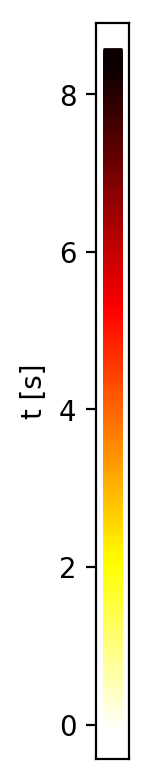
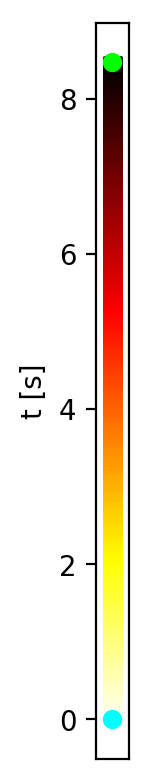
rotate, mark snapshot times, start trajectory at later time

diff --git a/fave/all_plots.py b/fave/all_plots.py
@@ -10,7 +10,36 @@ capsule = capsule_distance.Capsule(0.18, -0.5, 0.45)
 y_reference_point = 0.18
 tau = 1.5
 
-def plot_and_export(name, t_snapshot_1, t_snapshot_2, show_big_circle, x_lim, y_lim, remove_ground):
+def rotate_pose_mat(pose_mat, angle):
+	rotation_matrix = np.array([
+		[np.cos(angle), -np.sin(angle)],
+		[np.sin(angle),  np.cos(angle)]])
+	
+	pose_mat[:, 1:3] = np.matmul(pose_mat[:, 1:3], np.transpose(rotation_matrix))
+
+	pose_mat[:, 3] = pose_mat[:, 3] + angle
+
+def rotate_t_vector_stack(stack_mat, angle):
+	rotation_matrix = np.array([
+		[np.cos(angle), -np.sin(angle)],
+		[np.sin(angle),  np.cos(angle)]])
+	
+	stack_mat[:, 1:3] = np.matmul(stack_mat[:, 1:3], np.transpose(rotation_matrix))
+
+def rotate_t_multi_vector_stack(stack_mat, angle):
+	rotation_matrix = np.array([
+		[np.cos(angle), -np.sin(angle)],
+		[np.sin(angle),  np.cos(angle)]])
+
+	n_vectors = (stack_mat.shape[1] - 1)/2
+	rot_diag = np.kron(np.eye(n_vectors, dtype=float), rotation_matrix)
+
+	nan_ind = np.isnan(stack_mat)
+	stack_mat[nan_ind] = 0.0
+	stack_mat[:, 1:] = np.matmul(stack_mat[:, 1:], np.transpose(rot_diag))
+	stack_mat[nan_ind] = np.nan
+
+def plot_and_export(name, t_start, t_snapshot_1, t_snapshot_2, show_big_circle, x_lim, y_lim, remove_ground, rotation_angle):
 
 	folder_path = "./" + name + "/"
 	picture_export_prefix = "./pictures/a_" + name + "_"
@@ -25,15 +54,22 @@ def plot_and_export(name, t_snapshot_1, t_snapshot_2, show_big_circle, x_lim, y_
 	lrf_file_name = folder_path + "t_lrf_ob_global.mat"
 	d_lrf_file_name = folder_path + "t_shortest_distance_lrf_all.mat"
 
-	pose_mat = sio.loadmat(pose_file_name)
-	xy_p_ref_mat = sio.loadmat(xy_p_ref_file_name)
-	v_nom_mat = sio.loadmat(v_nom_file_name)
-	v_corr_mat = sio.loadmat(v_corr_file_name)
+	pose_mat = sio.loadmat(pose_file_name) # to be rotated
+	xy_p_ref_mat = sio.loadmat(xy_p_ref_file_name) # to be rotated
+	v_nom_mat = sio.loadmat(v_nom_file_name) # to be rotated
+	v_corr_mat = sio.loadmat(v_corr_file_name) # to be rotated
 	d_tracks_mat = sio.loadmat(d_tracks_file_name)
-	tracks_mat = sio.loadmat(tracks_file_name)
+	tracks_mat = sio.loadmat(tracks_file_name) # to be rotated
 	command_mat = sio.loadmat(command_file_name)
-	lrf_mat = sio.loadmat(lrf_file_name)
+	lrf_mat = sio.loadmat(lrf_file_name) # to be rotated
 	d_lrf_mat = sio.loadmat(d_lrf_file_name)
+
+	rotate_pose_mat(pose_mat['data'], rotation_angle)
+	rotate_t_vector_stack(xy_p_ref_mat['data'], rotation_angle)
+	rotate_t_vector_stack(v_nom_mat['data'], rotation_angle)
+	rotate_t_vector_stack(v_corr_mat['data'], rotation_angle)
+	rotate_t_multi_vector_stack(tracks_mat['data'], rotation_angle)
+	rotate_t_multi_vector_stack(lrf_mat['data'], rotation_angle)
 
 	pose_without_nan_rows = pose_mat['data'][~np.isnan(pose_mat['data']).any(axis=1)]
 
@@ -60,6 +96,8 @@ def plot_and_export(name, t_snapshot_1, t_snapshot_2, show_big_circle, x_lim, y_
 
 	d_min = 10000.0
 	i_d_min = 0
+	t_start += t[1]
+	i_start = None
 	t_d_min_1 = t[1] + t_snapshot_1
 	t_d_min_2 = t[1] + t_snapshot_2
 	i_d_min_1 = None
@@ -72,6 +110,8 @@ def plot_and_export(name, t_snapshot_1, t_snapshot_2, show_big_circle, x_lim, y_
 			i_d_min_1 = i
 		if (t[i] > t_d_min_2) and (i_d_min_2 == None):
 			i_d_min_2 = i
+		if (t[i] > t_start) and (i_start == None):
+			i_start = i
 
 	i_snapshots = [i_d_min_1, i_d_min_2]
 	t_snapshot_colors = [[0.0,1.0, 1.0], [0.0,1.0, 0.0]]
@@ -88,7 +128,7 @@ def plot_and_export(name, t_snapshot_1, t_snapshot_2, show_big_circle, x_lim, y_
 			plt.scatter(lrf[i_d_min_1, even].flatten(), lrf[i_d_min_1, odd].flatten(), color=t_snapshot_colors[0])
 			plt.scatter(lrf[i_d_min_2, even].flatten(), lrf[i_d_min_2, odd].flatten(), color=t_snapshot_colors[1])
 		else:
-			r_cutoff_squared = 9.0
+			r_cutoff_squared = 16.0
 			for i_snap in range(2):
 				i_now = i_snapshots[i_snap]
 				X_lrf_now = lrf[i_now, even].flatten() 
@@ -97,11 +137,11 @@ def plot_and_export(name, t_snapshot_1, t_snapshot_2, show_big_circle, x_lim, y_
 				i_cutoff = R_now_squared < r_cutoff_squared
 				plt.scatter(X_lrf_now[i_cutoff], Y_lrf_now[i_cutoff], color=t_snapshot_colors[i_snap])
 
-	plt.scatter(xy_p_ref[1:i_d_min_2, 0], xy_p_ref[1:i_d_min_2, 1], c=(t[1:i_d_min_2]-t[1])/(t[i_d_min_2]-t[1]), cmap=cm.hot_r, marker='o', edgecolors='k')
-	plt.scatter(xy_p_ref[1:i_d_min_2, 0], xy_p_ref[1:i_d_min_2, 1], c=(t[1:i_d_min_2]-t[1])/(t[i_d_min_2]-t[1]), cmap=cm.hot_r, marker='o')#, edgecolors='k')
+	plt.scatter(xy_p_ref[i_start:i_d_min_2, 0], xy_p_ref[i_start:i_d_min_2, 1], c=(t[i_start:i_d_min_2]-t[i_start])/(t[i_d_min_2]-t[i_start]), cmap=cm.hot_r, marker='o', edgecolors='k')
+	plt.scatter(xy_p_ref[i_start:i_d_min_2, 0], xy_p_ref[i_start:i_d_min_2, 1], c=(t[i_start:i_d_min_2]-t[i_start])/(t[i_d_min_2]-t[i_start]), cmap=cm.hot_r, marker='o')#, edgecolors='k')
 	for j in range(tracks.shape[1]/4):
-		plt.scatter(tracks[1:i_d_min_2,j*4], tracks[1:i_d_min_2,j*4+1], c=(t[1:i_d_min_2]-t[1])/(t[i_d_min_2]-t[1]), cmap=cm.hot_r, marker="^", edgecolors='k')
-		plt.scatter(tracks[1:i_d_min_2,j*4], tracks[1:i_d_min_2,j*4+1], c=(t[1:i_d_min_2]-t[1])/(t[i_d_min_2]-t[1]), cmap=cm.hot_r, marker="^")
+		plt.scatter(tracks[i_start:i_d_min_2,j*4], tracks[i_start:i_d_min_2,j*4+1], c=(t[i_start:i_d_min_2]-t[i_start])/(t[i_d_min_2]-t[i_start]), cmap=cm.hot_r, marker="^", edgecolors='k')
+		plt.scatter(tracks[i_start:i_d_min_2,j*4], tracks[i_start:i_d_min_2,j*4+1], c=(t[i_start:i_d_min_2]-t[i_start])/(t[i_d_min_2]-t[i_start]), cmap=cm.hot_r, marker="^")
 
 	#plt.plot(xy_p_ref[i_d_min, 0], xy_p_ref[i_d_min, 1], 'kx')
 	plt.plot(xy_p_ref[i_d_min_1, 0], xy_p_ref[i_d_min_1, 1], 'kx')
@@ -134,29 +174,31 @@ def plot_and_export(name, t_snapshot_1, t_snapshot_2, show_big_circle, x_lim, y_
 		ax.set_ylim(y_lim)
 	plt.savefig(picture_export_prefix + 'trajectories.png', bbox_inches='tight', dpi=199)
 	plt.show()
-	#np.savetxt("debug_t_vector", t[1:i_d_min_2]-t[1])
-	plt.scatter(np.zeros(np.shape(t[1:i_d_min_2])[0]), t[1:i_d_min_2]-t[1], c=(t[1:i_d_min_2]-t[1])/(t[i_d_min_2]-t[1]), cmap=cm.hot_r, marker='s')
+	#np.savetxt("debug_t_vector", t[i_start:i_d_min_2]-t[i_start])
+	plt.scatter(np.zeros(np.shape(t[i_start:i_d_min_2])[0]), t[i_start:i_d_min_2]-t[i_start], c=(t[i_start:i_d_min_2]-t[i_start])/(t[i_d_min_2]-t[i_start]), cmap=cm.hot_r, marker='s')
+	plt.scatter([0.0], [t[i_d_min_1]-t[i_start]], color=t_snapshot_colors[0])
+	plt.scatter([0.0], [t[i_d_min_2]-t[i_start]], color=t_snapshot_colors[1])
 	plt.gca().set_ylabel('t [s]')
 	plt.gca().set_aspect('equal')
 	#ax.set_title('Trajectories')
-	plt.gca().set_xlim([(t[i_d_min_2]-t[1])/2/20.0, -(t[i_d_min_2]-t[1])/2/20.0])
+	plt.gca().set_xlim([(t[i_d_min_2]-t[i_start])/2/20.0, -(t[i_d_min_2]-t[i_start])/2/20.0])
 	plt.gca().set_xticks([], [])
 	plt.savefig(picture_export_prefix + 'color_map.png', bbox_inches='tight', dpi=199)
 	plt.show()
 
 	commands = command_mat['data'][:, :]
-	t_commands = commands[1:i_d_min_2, 0]
-	v_nominal = commands[1:i_d_min_2, 1]
-	w_nominal = commands[1:i_d_min_2, 2]
-	v_corrected = commands[1:i_d_min_2, 3]
-	w_corrected = commands[1:i_d_min_2, 4]
+	t_commands = commands[i_start:i_d_min_2, 0]
+	v_nominal = commands[i_start:i_d_min_2, 1]
+	w_nominal = commands[i_start:i_d_min_2, 2]
+	v_corrected = commands[i_start:i_d_min_2, 3]
+	w_corrected = commands[i_start:i_d_min_2, 4]
 
 	ax1 = plt.subplot(211)
 	ax2 = plt.subplot(212, sharex=ax1)
-	ax1.plot(t_commands-t[1], v_nominal, color='k', label='nominal')
-	ax1.plot(t_commands-t[1], v_corrected, color='r', label='corrected')
-	ax2.plot(t_commands-t[1], w_nominal, color='k', label='nominal')
-	ax2.plot(t_commands-t[1], w_corrected, color='r', label='corrected')
+	ax1.plot(t_commands-t[i_start], v_nominal, color='k', label='nominal')
+	ax1.plot(t_commands-t[i_start], v_corrected, color='r', label='corrected')
+	ax2.plot(t_commands-t[i_start], w_nominal, color='k', label='nominal')
+	ax2.plot(t_commands-t[i_start], w_corrected, color='r', label='corrected')
 	ax1.set_ylabel('v [m/s]')
 	ax2.set_ylabel('omega [rad/s]')
 	ax2.set_xlabel('t [s]')
@@ -167,13 +209,16 @@ def plot_and_export(name, t_snapshot_1, t_snapshot_2, show_big_circle, x_lim, y_
 
 
 tests_args = [
-	["jul_16_door_rds_3", 0.0, 8.5, False, [-1.5, 4.5], [-2, 2], False]
-	,["jul_16_door_orca_2", 0.0, 8.5, True, [-1.5, 2.5], [-2, 2], False]
-	,["jul_17_row_overtaking_rds_o1", 2.0, 12.5, False, [0, 9.5], [-2, 3], True]
-	,["jul_17_row_overtaking_orca", 2.0, 9, True, [5, 11], [-4, 1], True]
-	,["jul_17_crowd_overtaking_rds", 6.0, 11, False, [11.5,19], [-8.2,-1], True]
-	,["jul_17_crowd_overtaking_orca", 8.0, 17.7, True, [13.7, 19.7], [-8.5, -2.5], True]
+	["jul_16_door_rds_3", 0.0, 0.0, 8.5, False, [-1.5, 4.5], [-2, 2], False, 0.0]
+	,["jul_16_door_orca_2", 0.0, 0.0, 8.5, True, [-1.5, 2.5], [-2, 2], False, 0.0]
+	,["jul_17_row_overtaking_rds_o1", 0.0, 2.0, 12.5, False, [0, 9.5], [-2, 3], True, 0.0]
+	,["jul_17_row_overtaking_orca", 0.0, 2.0, 9, True, [5, 11], [-4, 1], True, 0.0]
+	,
+	["jul_17_crowd_overtaking_rds", 4.0, 6.0, 11, False, [11.8, 18], [5.75,10]# [11.5,19], [-8.2,-1]
+	, True, np.pi/4.0]
+	,["jul_17_crowd_overtaking_orca", 6.0, 8.0, 17.7, True, [14,20.25], [3.5, 7.6]# [13.7, 19.7], [-8.5, -2.5]
+	, True, np.pi/4.0-0.15]
 ]
 
 for args in tests_args:
-	plot_and_export(args[0], args[1], args[2], args[3], args[4], args[5], args[6])
+	plot_and_export(args[0], args[1], args[2], args[3], args[4], args[5], args[6], args[7], args[8])
